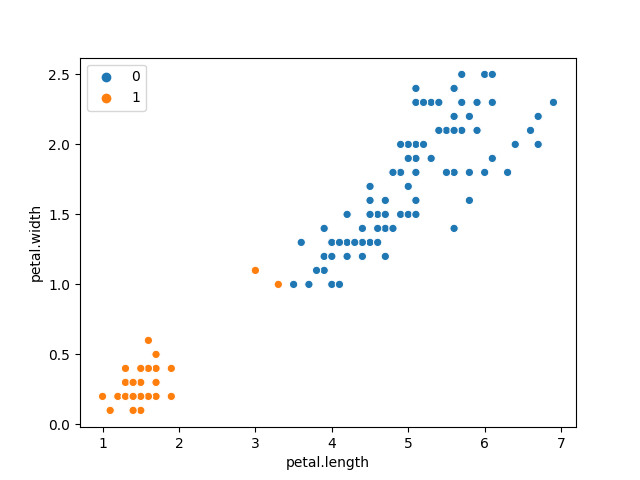
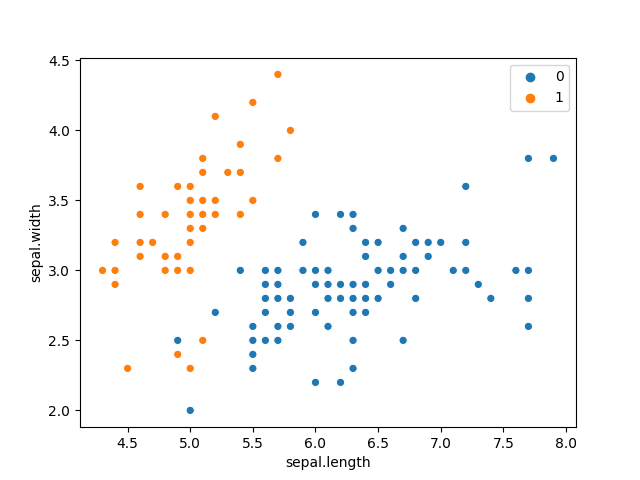
Final Version

diff --git a/purity.py b/purity.py
@@ -32,7 +32,7 @@ def get_args():
 
 # Function to visualize groups
 def visualize(df, Model, n_cluster):
-    s = sns.scatterplot(data=df, x="petal.length", y="petal.width", hue=Model)
+    s = sns.scatterplot(data=x, x=x.columns[0], y=x.columns[1], hue=Model)
     fig = s.get_figure()
     fig.savefig('image/kmeans_clusters_{}.png'.format(n_cluster))
     fig.clf()
@@ -71,7 +71,7 @@ if __name__ == "__main__":
         # Apply model
         Model = apply_model(x, n_cluster)
         # Saving results in png file
-        visualize(df, Model, n_cluster)
+        visualize(x, Model, n_cluster)
         # Calculating purity
         purity_value = purity_metric(df[args.target], Model)
    
